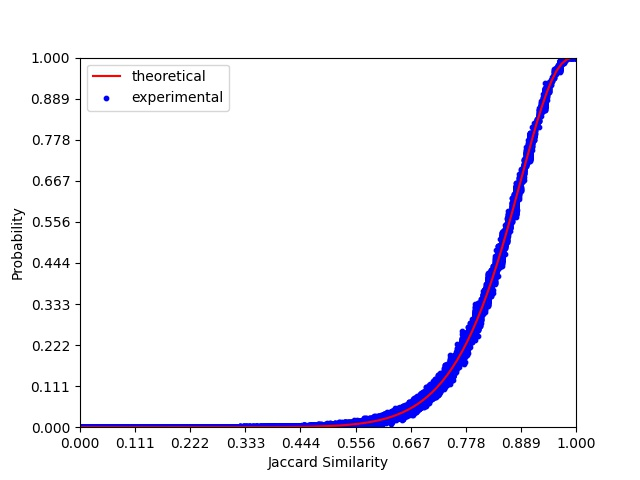
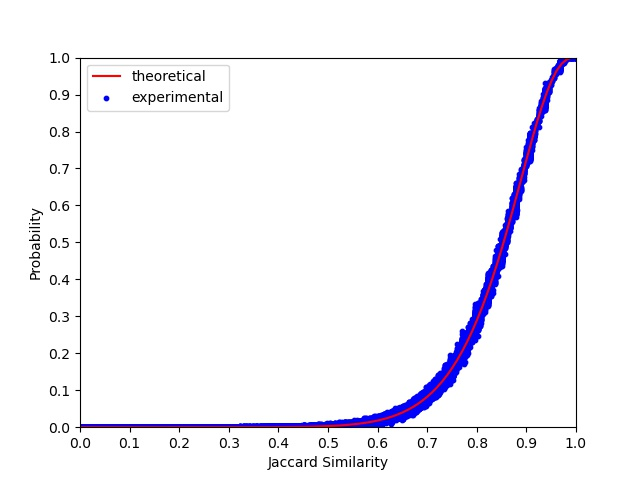
update figure

diff --git a/draw.py b/draw.py
@@ -4,7 +4,6 @@ import numpy as np
 
 
 def draw(filename, b, r):
-
     f = open(filename)
     lines = f.readlines()
     similarity = []
@@ -17,25 +16,24 @@ def draw(filename, b, r):
         prob[1] = prob[1].strip()
         simi = line[1].split("=")
         simi[1] = simi[1].strip()
-        similarity.append(float(simi[1])/100)
-        probability.append(float(prob[1])/100)
-
+        similarity.append(float(simi[1]) / 100)
+        probability.append(float(prob[1]) / 100)
 
     x = np.linspace(0, 10, 1000)
-    prediction = 1 - (1 - x**r)**b
-
+    prediction = 1 - (1 - x ** r) ** b
 
     plt.xlim((0, 1))
     plt.ylim((0, 1))
     plt.xlabel("Jaccard Similarity")
     plt.ylabel("Probability")
-    plt.xticks(np.linspace(0, 1, 10))
-    plt.yticks(np.linspace(0, 1, 10))
+    plt.xticks(np.linspace(0, 1, 11))
+    plt.yticks(np.linspace(0, 1, 11))
     l1 = plt.plot(x, prediction, color='red', label='theoretical')
     l2 = plt.scatter(similarity, probability, s=10, color='blue', label='experimental')
     plt.legend(loc='upper left')
     plt.savefig('./figure/' + str(b) + '_' + str(r) + '.jpg')
     plt.cla()
+
 
 if __name__ == '__main__':
     path = "./lsh_result"
@@ -44,9 +42,4 @@ if __name__ == '__main__':
         b_r = file.split("_")
         b = int(b_r[0])
         r = int(b_r[1].split(".")[0])
-        draw(path+'/'+file, b, r)
-
-
-
-
-
+        draw(path + '/' + file, b, r)
